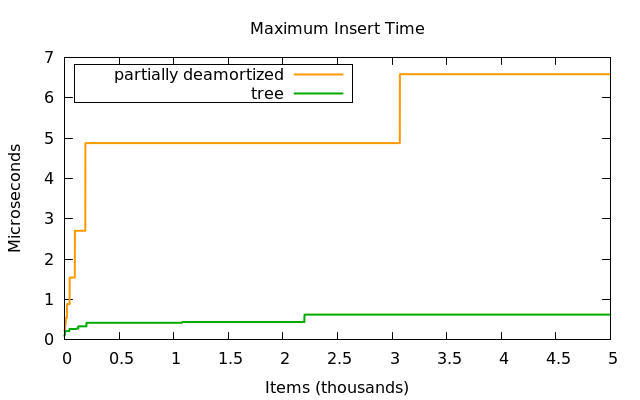
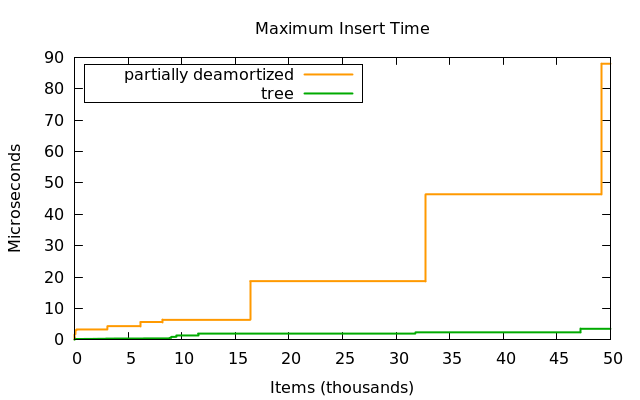
work-based tiered bitvector

diff --git a/src/lazy-linear.cc b/src/lazy-linear.cc
@@ -129,15 +129,18 @@ struct TieredBitArray {
     }
     return ans;
   }
+  static vector<vector<bool> *> old_ones;
+
   size_t shift;
   vector<vector<bool> *> data;
   TieredBitArray(const size_t n) : shift(blog(n)), data(1ull << (shift/2), 0) {
-    assert (0 == pop_count());
+
   }
   ~TieredBitArray() {
     for (auto& x : data) {
-      delete x;
-      x = 0;
+      old_ones.push_back(x);
+      //delete x;
+      //x = 0;
     }
   }
   TieredBitArray(const BasicBitArray&) = delete;
@@ -146,37 +149,34 @@ struct TieredBitArray {
     return (i >> ((shift+1)/2));
   }
   size_t lower(const size_t i) const {
-    return (i & ((1ull << ((shift/2)+1)) - 1));
+    //return (i & ((1ull << ((shift/2)+1)) - 1));
+    return (i - (upper(i) << ((shift+1)/2)));
   }
   bool check(const size_t& i) const {
+    assert (upper(i) < (1ull << (shift/2)));
     if (0 == data[upper(i)]) {
       return false;
     }
     return (*data[upper(i)])[lower(i)];
   }
-  size_t pop_count() const {
-    size_t ans = 0;
-    for (size_t i = 0; i < (1ull << shift); ++i) {
-      if (check(i)) ++ans;
-      cerr << (check(i) ? 1 : 0);
-    }
-    cerr << endl << this << " pop_count: " << ans << endl;
-    assert (ans < (1ull << shift));
-    return ans;
-  }
   void set(const size_t& i) {
-    const size_t old_count = pop_count();
     if (0 == data[upper(i)]) {
       data[upper(i)] = new vector<bool>(1ull << ((shift+1)/2), false);
     }
     (*data[upper(i)])[lower(i)] = true;
-    assert (pop_count() <= old_count + 1);
+    if (not old_ones.empty()) {
+      delete old_ones.back();
+      old_ones.pop_back();
+    }
   }
   void unset(const size_t& i) {
     if (0 != data[upper(i)]) {
       (*data[upper(i)])[lower(i)] = false;
     }
-    pop_count();
+    if (not old_ones.empty()) {
+      delete old_ones.back();
+      old_ones.pop_back();
+    }
   }
   void swap(TieredBitArray * that) {
     std::swap(shift, that->shift);
@@ -184,6 +184,7 @@ struct TieredBitArray {
   }
 };
 
+vector<vector<bool> *> TieredBitArray::old_ones = vector<vector<bool> *>();
 
 /*
 struct BasicBitArray {

diff --git a/src/benchmark/insert-maxtime.cc b/src/benchmark/insert-maxtime.cc
@@ -121,7 +121,7 @@ template<typename T, typename U>
 void test_lookup(const unsigned size, const unsigned samples) {
   void * dummy = 0;
   unsigned i = 0;
-  //high_priority zz;
+  high_priority zz;
   T p;
   U q;
   decltype(p.find(some::random())) pf;
@@ -184,7 +184,7 @@ void print_test(std::vector<std::tuple<unsigned, double, double> > x) {
 
 int main(int argc, char ** argv) {
   srand(0);
-  unsigned size = 5000;//00;
+  unsigned size = 50000;//00;
   unsigned samples = 1 << 8;
   if (4 == argc) {
     size = read<unsigned>(argv[2]);
